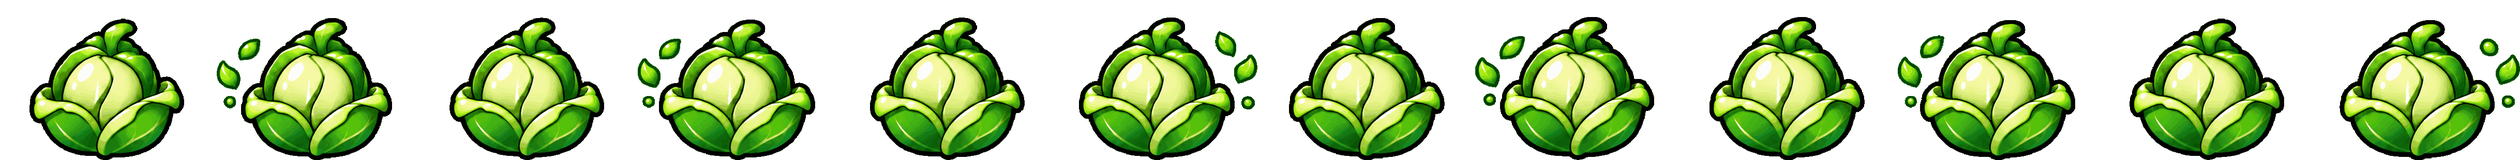
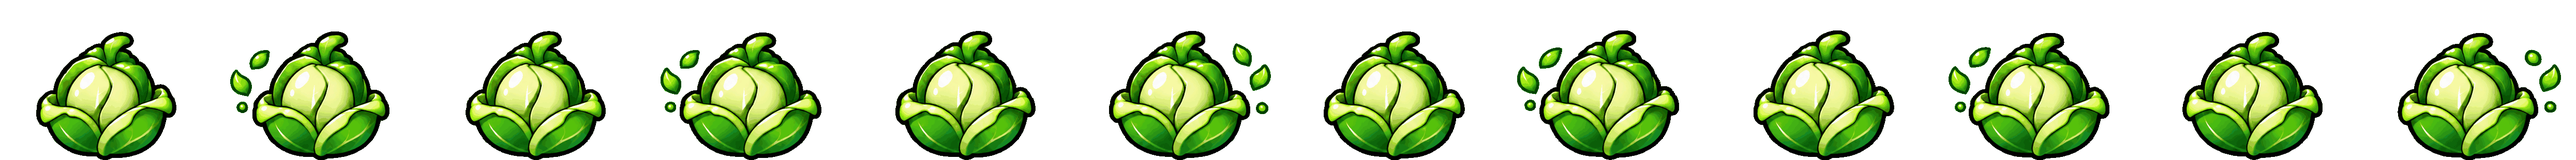
Give the Leaf Bud its two transitions
Twelve frames each. The bud's outer leaves open over four frames and
then let go - frame 6 the first time, frame 5 the second, counted off
the sheets by where two loose blobs first appear beside it. All five
sheets are packed together now, so the phases and the transitions share
a frame, a ground line to the pixel and a centre to about one.

One thing needed solving that the other two eggs never posed. Each
transition shrinks its bud harder than the two phases it joins differ -
about 17% against the phases' 10% - so no single scale can make both of
its ends match. The ends really are the same drawings as the idle
frames, which is how you can tell: registered against them they sit at
0.95 to 0.98 IoU, and they ask for 0.977 at the first frame and 1.068 at
the last, 0.990 and 1.092 for the second transition. One factor leaves a
visible step at one end or a smaller one at both, so each transition
carries a scale ramp across its twelve frames instead. That is 0.8% a
frame, spread under leaves flying off the bud.

Measured on the pet screen, both handovers land: the clip's last frame
and the idle that replaces it differ by 0.4% in area and not at all in
ground line. Walked both level-ups end to end - wind-up on the old
phase, clip, new phase - and refitted the whole set after the repack
widened the frame, back to where the phases sat before.

Claude-Session: https://claude.ai/code/session_01YRzrKPfiP3SQKKej9Vjk7N

diff --git a/index.html b/index.html
@@ -1569,6 +1569,19 @@ const LEVEL_UP_ART = {
   "nimbus:0@3": levelUpClip({ src:"art/nimbus-egg-crack-2.png", frames:12,
     gather:2, burst:10, aspect:1.194, scale:0.932, dx:0.00, dy:-2.19,
     cap:{ top:12, right:45 } }),
+  // The Leaf Bud does not crack, it sheds: the outer leaves open over four
+  // frames and then let go, on frame 6 the first time and frame 5 the second,
+  // counted off the sheets by where two loose blobs first appear beside the
+  // bud. Each transition ends on the frame its new phase opens with - the
+  // clip and the change of art are the same event - which took a scale ramp
+  // in the pack, because these sheets shrink the bud harder than the phases
+  // they join do. See the packing notes in the README.
+  "verdant:0@2": levelUpClip({ src:"art/verdant-egg-crack-1.png", frames:12,
+    gather:1, burst:5, aspect:1.339, scale:1.048, dx:1.05, dy:-3.75,
+    cap:{ top:12, right:45 } }),
+  "verdant:0@3": levelUpClip({ src:"art/verdant-egg-crack-2.png", frames:12,
+    gather:1, burst:4, aspect:1.339, scale:1.048, dx:1.05, dy:-3.75,
+    cap:{ top:12, right:45 } }),
   // this one scowls and shuts its eyes for four frames before any gold shows,
   // so its build is shorter in frames and each of them holds longer. `cap`
   // brings the caption in to meet it: the baby draws 130px wide inside the
@@ -2607,7 +2620,7 @@ const DEFAULT_SPRITES = {
     // shrinking is the art saying something is coming. The bud is the largest
     // blob, so the leaves drifting off it cannot drag the anchor around.
     src:"art/verdant-egg.png",
-    frames:12, rows:1, fps:2, aspect:1.310, scale:0.93, dx:0, dy:2.3
+    frames:12, rows:1, fps:2, aspect:1.339, scale:1.048, dx:1.05, dy:-3.75
   },
   "nimbus:1": {
     src:"art/nimbus-puffling.png",
@@ -2662,8 +2675,8 @@ function spriteConfig(species, stage){
 /* Stamped into Settings so a device can say which build it is running. GitHub
    Pages caches index.html and offers no way to set headers on it, so a missing
    feature and a stale page look the same without this. */
-const BUILD_ID = "2026-09-16 8a5fe7f";
-const ART_VERSION = "19";
+const BUILD_ID = "2026-09-16 0f5601a";
+const ART_VERSION = "20";
 function assetURL(src){
   return /^art\//.test(src) ? src + "?v=" + ART_VERSION : src;
 }

diff --git a/README.md b/README.md
@@ -221,8 +221,10 @@ crack is the level-up celebration: `<species>:0@2` and `<species>:0@3` in
 `LEVEL_UP_ART` carry the shell from one phase to the next and end on the frame
 the new idle opens with, so the celebration and the change of art are one
 event. `EGG_PHASES` is keyed by species, and any species with an entry gets
-this behaviour; the Cinder Egg cracks on frame 9 both times, while the acorn
-splits on 7 and spreads on 10, measured off the sheets rather than assumed. While a level-up is armed the pet is still drawn as it was *before* it,
+this behaviour; the Cinder Egg cracks on frame 9 both times, the acorn splits
+on 7 and spreads on 10, and the Leaf Bud lets its leaves go on 6 and then on 5
+— measured off the sheets rather than assumed, here by watching for the frame
+where two loose blobs first appear beside the bud. While a level-up is armed the pet is still drawn as it was *before* it,
 or you would come home to an already cracked shell and then watch it crack.
 
 The Verdant egg is the exception that proves what the packing is for. It does
@@ -234,6 +236,19 @@ a ground line to a pixel and a centre to about one, but they are deliberately
 Normalising is right when the art is the same object changing state and wrong
 when the change of size **is** the state. All three sit on the same ground
 line, so the bud shrinks down onto it rather than drifting.
+
+Its two transitions then raise a problem the other eggs never had. Each one
+shrinks its bud harder than the two phases it joins differ — about 17% against
+the phases' 10% — so no single scale can make both of its ends match. The ends
+really are the same drawings as the idle frames, which is how you can tell:
+registered against them they sit at 0.95 to 0.98 IoU, and they ask for 0.977
+at the first frame and 1.068 at the last (0.990 and 1.092 for the second
+transition). One factor would leave a visible step at one end, or a smaller one
+at both. So each transition carries a scale **ramp** across its twelve frames
+instead. Both handovers then land exactly — measured on the pet screen, the
+clip's last frame and the idle that replaces it differ by 0.4% in area and not
+at all in ground line — and the correction works out at 0.8% a frame, spread
+under leaves flying off the bud.
 
 A celebration's sheet is not the sheet the pet is already wearing, and a CSS
 background does not start loading until something paints it — which for a
@@ -385,10 +400,12 @@ The Cinderling and the Blazewyrm (Ember, stages 2 and 3) ship as pixel art in
 [`art/ember-blazewyrm.png`](art/ember-blazewyrm.png) — 12-frame loops at 2 fps
 — and the Bamboo Cub (Verdant, stage 2) in
 [`art/verdant-bamboo-cub.png`](art/verdant-bamboo-cub.png). The Verdant egg
-ships as three sheets too, one per phase:
+ships as five: three phases,
 [`art/verdant-egg.png`](art/verdant-egg.png),
 [`-cracked`](art/verdant-egg-cracked.png) and
-[`-breaking`](art/verdant-egg-breaking.png). The rest are inline SVG.
+[`-breaking`](art/verdant-egg-breaking.png), and the two transitions between
+them in [`-crack-1`](art/verdant-egg-crack-1.png) and
+[`-crack-2`](art/verdant-egg-crack-2.png). The rest are inline SVG.
 
 Note that this pet plays one continuous loop rather than a per-mood animation,
 so its face cycles through every expression regardless of how recently you ran.

diff --git a/art/PROMPTS.md b/art/PROMPTS.md
@@ -106,7 +106,7 @@ Mossy greens, warm bark browns, pale glowing yellow-green light.
 
 | Form | Subject line | Size in frame |
 | --- | --- | --- |
-| 1 · Leaf Bud | *done* — `art/verdant-egg.png`, `-cracked`, `-breaking` (a leaf bud that peels rather than cracks, so the three phases run largest to smallest) | fills ~55% |
+| 1 · Leaf Bud | *done* — `art/verdant-egg.png`, `-cracked`, `-breaking`, plus `-crack-1` and `-crack-2` (a leaf bud that peels rather than cracks, so the three phases run largest to smallest) | fills ~55% |
 | 2 · Bamboo Cub | *done* — `art/verdant-bamboo-cub.png` (a panda cub; the rest of this line is still moss spirits) | ~70% |
 | 3 · Fernkin | `SUBJECT: a young forest spirit with small twig antlers, a moss cloak over its shoulders, glowing eyes, a single fern frond behind one ear` | ~80% |
 | 4 · Thicketmane | `SUBJECT: a forest guardian with broad antlers heavy with leaves, a thick moss mantle, small flowers opening along the antlers, a glowing rune on its chest` | ~90% |
